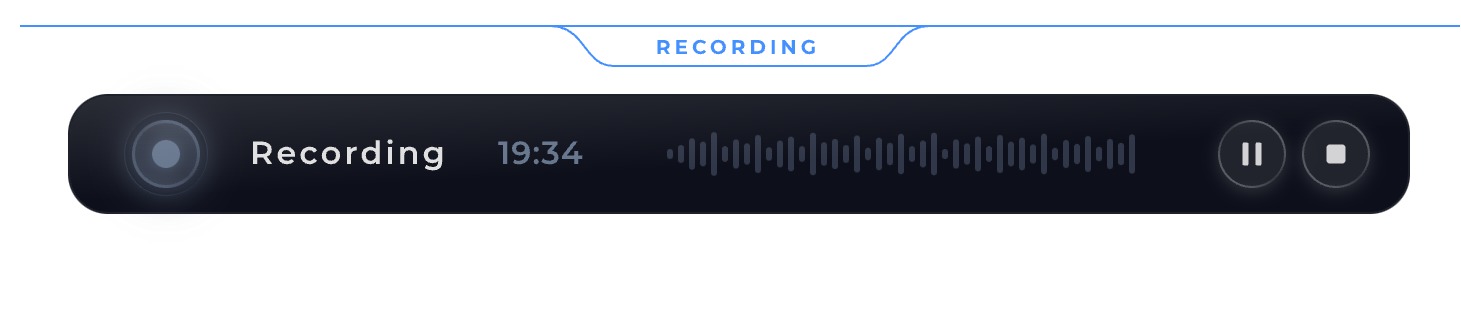
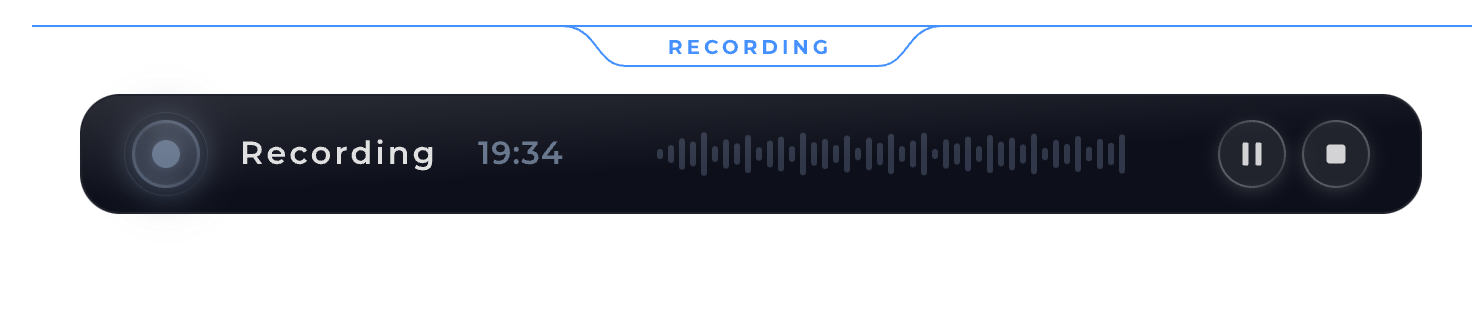
Center recording bar with equal padding and spacing
- Updated FSHbK padding to equal 26px left/right
- Re-exported recording section image
- Updated overlay positions to match new layout

diff --git a/index.html b/index.html
@@ -162,11 +162,11 @@ body{
   <div class="section draggable" draggable="true" data-name="recording">
     <div class="drag-handle"></div>
     <img src="occupy-assets/4qBsr.png" alt="">
-    <div class="rec-dot" id="recDot" style="left:56px;top:47px;">
+    <div class="rec-dot" id="recDot" style="left:50px;top:47px;">
       <div class="rec-dot-inner"></div>
     </div>
-    <div class="rec-timer" id="recTime" style="left:239px;top:54px;">00:00</div>
-    <div class="rec-waveform" id="recWaveform" style="left:307px;top:50px;width:267px;height:28px;"></div>
+    <div class="rec-timer" id="recTime" style="left:223px;top:54px;">00:00</div>
+    <div class="rec-waveform" id="recWaveform" style="left:286px;top:50px;width:287px;height:28px;"></div>
   </div>
 
   <!-- ═══ SERVICES ═══ -->
